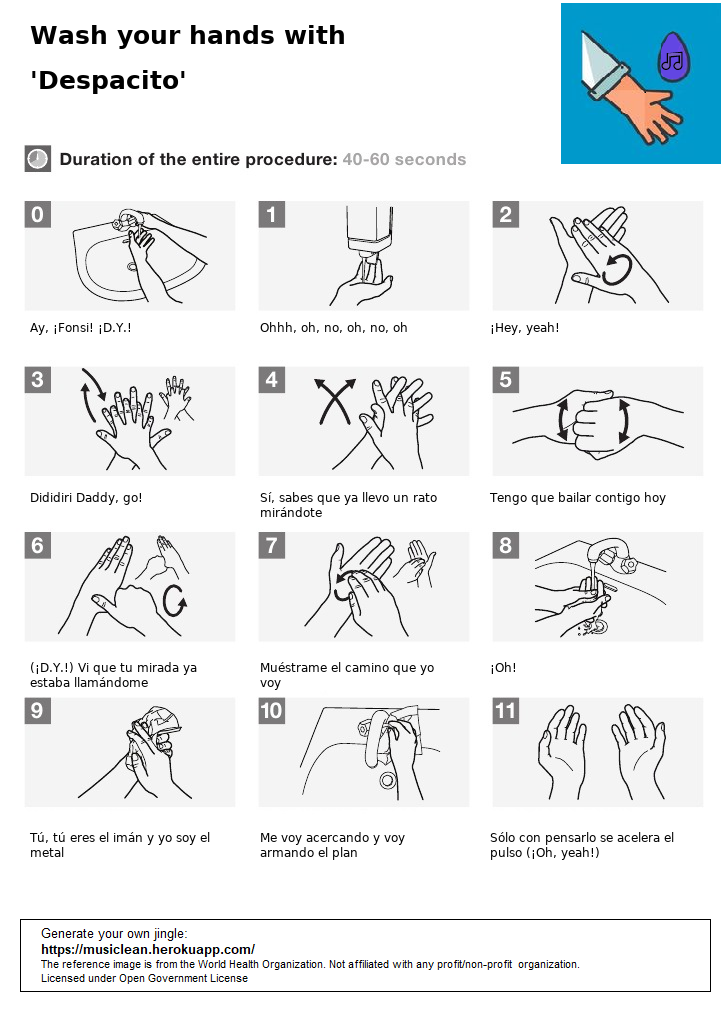
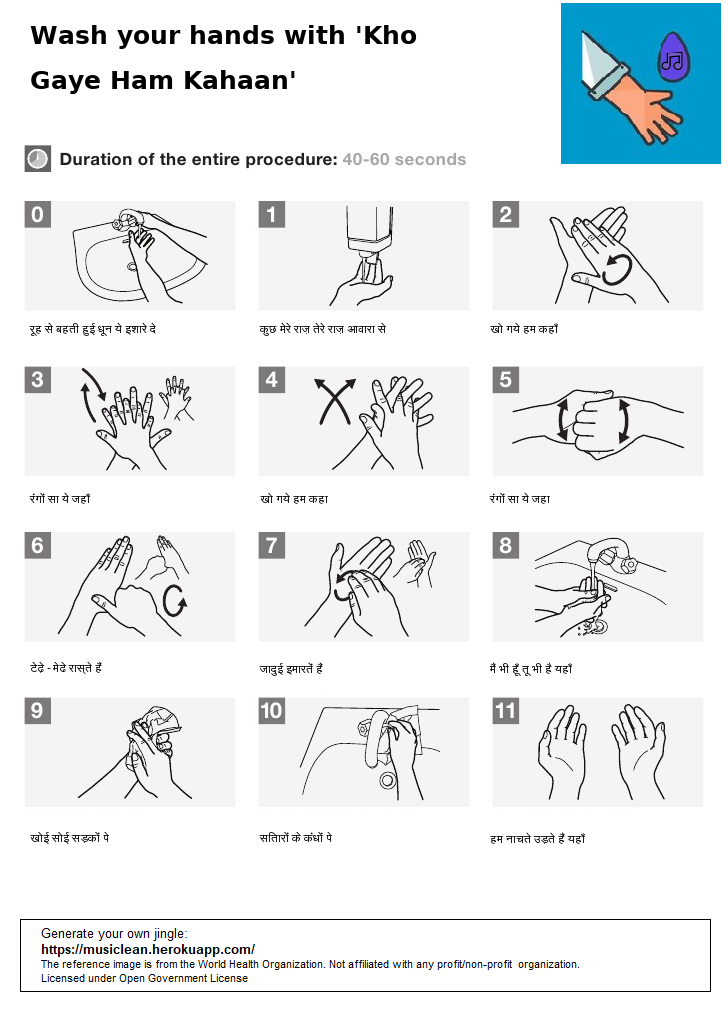
added hindi fun

diff --git a/handclean_app/fin_2.py b/handclean_app/fin_2.py
@@ -1,0 +1,145 @@
+from PIL import Image, ImageFont, ImageDraw
+import re
+import json
+import requests
+
+from langdetect import detect  #added
+from django.conf import settings
+import os
+
+
+class lyric_class:
+    def __init__(self, artist,song_title):
+        self.artist = artist
+        self.song_title=song_title
+
+    def text_wrap(self,text, font, max_width):
+	    lines = []
+	    # If the width of the text is smaller than image width
+	    # we don't need to split it, just add it to the lines array
+	    # and return
+	    if font.getsize(text)[0] <= max_width:
+	        lines.append(text) 
+	    else:
+	        # split the line by spaces to get words
+	        words = text.split(' ')  
+	        i = 0
+	        # append every word to a line while its width is shorter than image width
+	        while i < len(words):
+	            line = ''         
+	            while i < len(words) and font.getsize(line + words[i])[0] <= max_width:                
+	                line = line + words[i] + " "
+	                i += 1
+	            if not line:
+	                line = words[i]
+	                i += 1
+	            # when the line gets longer than the max width do not append the word, 
+	            # add the line to the lines array
+	            lines.append(line)    
+	    return lines
+
+    def img_wrt(self, text_arr, song_title, artist,font,line_height):
+        # font_hin = ImageFont.truetype('/usr/share/fonts/truetype/Gargi/Gargi.ttf',12) #absolute path
+        # font_eng_bd=ImageFont.truetype('/usr/share/fonts/truetype/dejavu/DejaVuSans-Bold.ttf',10) #absolute path
+        # font_eng_bd_title=ImageFont.truetype('/usr/share/fonts/truetype/dejavu/DejaVuSans-Bold.ttf',25) #absolute path
+        # font_eng=ImageFont.truetype('/usr/share/fonts/truetype/dejavu/DejaVuSans.ttf',12) #absolute path
+        font_eng_bd_title = ImageFont.truetype(settings.BASE_DIR + '/handclean_app/static/handclean_app/fonts/DejaVuSans-Bold.ttf', 25)  #absolute path
+        
+        source_img = Image.open(settings.BASE_DIR + '/handclean_app/static/handclean_app/images/handwash.png') #absolute path
+        # source_img = Image.open('handwash.png') #absolute path
+        draw = ImageDraw.Draw(source_img)
+        x = 30
+        y = 320
+        ctr = 0
+        box_x = 200
+        for i in range(4):
+            for j in range(3):
+                print(text_arr[ctr])
+                lines = self.text_wrap(text_arr[ctr], font, box_x - 10)
+                y1 = y
+                for line in lines:
+                    draw.text((x, y1), line, fill=(0, 0, 0), font=font)
+                    y1 = y1 + line_height
+                x += box_x + 30
+                ctr += 1
+            x = 30
+            y = y + 170
+
+        y = 20
+        text = "Wash your hands with '" + self.song_title.title() + "'";
+        lines = self.text_wrap(text, font_eng_bd_title, box_x * 2+50)
+        for line in lines:
+            draw.text((x, y), line, fill=(0, 0, 0), font=font_eng_bd_title)
+            y += line_height + 30
+        # source_img.save('a.png') #absolute path
+        source_img.save(settings.BASE_DIR + '/handclean_app/static/handclean_app/images/a.png') #absolute path
+
+
+
+    def parse_sen(self,str1):
+        str_txt="";
+        i=0
+        while(i<len(str1)):
+            if(str1[i]==' '):
+                while(i<len(str1) and str1[i]==' '):
+                    i+=1
+                if(i<len(str1)):
+                    str_txt+='-'
+            if(i<len(str1)):
+                str_txt=str_txt+str1[i];
+                i+=1
+        return(str_txt)
+
+    def get_lyrics(self):
+        # font_hin = ImageFont.truetype('/usr/share/fonts/truetype/Gargi/Gargi.ttf',12) #absolute path
+        # font_eng=ImageFont.truetype('/usr/share/fonts/truetype/dejavu/DejaVuSans.ttf',12) #absolute path
+        font_hin = ImageFont.truetype(settings.BASE_DIR + '/handclean_app/static/handclean_app/fonts/Gargi.ttf',12) #absolute path
+        font_eng=ImageFont.truetype(settings.BASE_DIR + '/handclean_app/static/handclean_app/fonts/DejaVuSans.ttf',12) #absolute path
+
+        artist = self.artist.lower()
+        song_title = self.song_title.lower()
+        artist=self.parse_sen(artist)
+        song_title = self.parse_sen(song_title)# with open(os.path.join(settings.BASE_DIR, 'handwash_app/myauth.json')) as json_file: #absolute path
+        with open(settings.BASE_DIR + '/handclean_app/static/handclean_app/myauth.json') as json_file:
+            data = json.load(json_file)
+            apikey = data["authkey"]
+        # apikey="d088aa58b583594776d4cd0acca539b2"
+        r=requests.get("https://api.musixmatch.com/ws/1.1/matcher.lyrics.get?q_track="+song_title+"&q_artist="+artist+"&apikey="+apikey)
+        
+        try:
+            # r is of type response            
+            packages_json = r.json()  # converts into json  
+            if (packages_json['message']['header']['status_code'] == 404):
+                return packages_json['message']['header']['status_code']
+                       
+            text = packages_json['message']['body']['lyrics']['lyrics_body']
+                
+            
+            str1=""
+            text_arr=[]
+            c=0
+            i=0
+            while( i <len(text)):
+            	while(text[i]=='\n'):
+            		i+=1
+            	str1+=text[i]
+            	i+=1
+            	if(text[i]=='\n'):
+            		text_arr.append(str1)
+            		str1=""
+            		c+=1
+            	if(c==12):
+            		break
+            print(text_arr)
+
+            if(text_arr[0]=='en'):
+                font=font_eng
+                line_height=font_eng.getsize('yf')[1]
+            else:
+                font=font_hin
+                line_height = font.getsize('ब्रेकिंगन्')[1]
+
+            self.img_wrt(text_arr,song_title,artist,font,line_height)
+            return text_arr
+        except Exception as e:
+            return "Exception occurred \t" +str(e)

diff --git a/handclean_app/views.py b/handclean_app/views.py
@@ -2,7 +2,7 @@ from django.shortcuts import render,redirect
 from django.contrib import messages
 from django.http import HttpResponse
 from .forms import LyricModelForm,ReviewModelForm
-from .fin import lyric_class
+from .fin_2 import lyric_class
 from .models import LyricModel,ReviewModel
 
 
